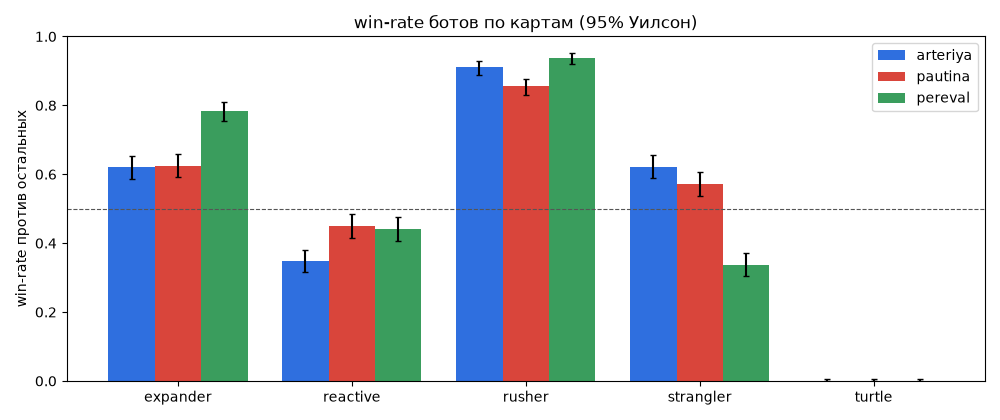
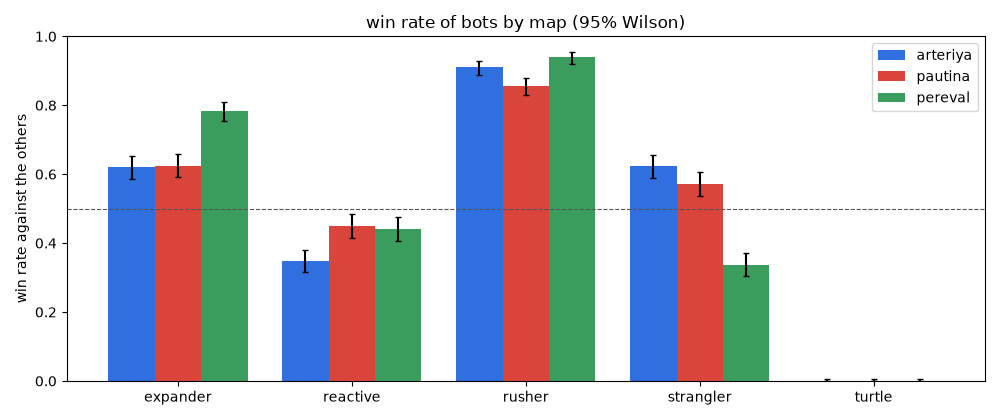
docs(docs): translate the balance log and regenerate the balance report (#405)

diff --git a/docs/balance/log.md b/docs/balance/log.md
@@ -1,12 +1,12 @@
-# Журнал балансировки
+# Balance log
 
-Каждая итерация: рулсет, прогон, результат по критериям гейта BAL-02 (#40), гипотезы и
-следующий шаг. Критерии гейта: issue #40 и `docs/design/mechanics.md`, раздел 17. Отчёт
-последнего прогона: [latest.md](latest.md), формат данных: [README.md](README.md).
+Each iteration: the ruleset, the run, the result against the BAL-02 gate criteria (#40), hypotheses and
+the next step. The gate criteria: issue #40 and `docs/design/mechanics.md`, section 17. The report of the
+latest run: [latest.md](latest.md), the data format: [README.md](README.md).
 
-## Итерация 0: BAL-01 (#39), первый прогон `mvp-0`
+## Iteration 0: BAL-01 (#39), the first `mvp-0` run
 
-### Прогон
+### Run
 
 ```bash
 uv run gow-bots tournament --maps maps/*.json --bots expander reactive rusher strangler turtle \
@@ -14,94 +14,94 @@ uv run gow-bots tournament --maps maps/*.json --bots expander reactive rusher st
 uv run gow-bots report docs/balance/latest.jsonl
 ```
 
-- Рулсет `mvp-0` (хэш `3c114c6a3fde5be635a73d1cd7ff1783`), `SIM_VERSION` 1, карты arteriya, pautina,
-  pereval, сиды 0..99, 7500 матчей. `idle` и `random_legal` исключены: все критерии гейта
-  считаются по стратегическим ботам («Idle и Random не учитываются», #40); их компетентность
-  проверена в BOT-01 и BOT-05.
-- Прогон собран из трёх запусков по одной карте (`--maps maps/<карта>.json`) и склеен в порядке
-  карт: строки упорядочены по `(карта, сид, бот0, бот1)`, поэтому файл совпадает с одним запуском
-  на трёх картах. Время: `docs/perf.md`, раздел «Турнир ботов».
+- Ruleset `mvp-0` (hash `3c114c6a3fde5be635a73d1cd7ff1783`), `SIM_VERSION` 1, maps arteriya, pautina,
+  pereval, seeds 0..99, 7500 matches. `idle` and `random_legal` are excluded: all gate criteria
+  are computed over the strategic bots ("Idle and Random are not counted", #40); their competence
+  was checked in BOT-01 and BOT-05.
+- The run was assembled from three runs, one per map (`--maps maps/<map>.json`), and joined in map
+  order: the rows are ordered by `(map, seed, bot0, bot1)`, so the file matches a single run
+  on the three maps. Timing: `docs/perf.md`, section "Bot tournament".
 
-### Результат по критериям гейта
+### Result against the gate criteria
 
-| Критерий (#40) | Значение | Итог |
+| Criterion (#40) | Value | Outcome |
 |---|---|---|
-| Ни один стратегический бот не выигрывает у остальных стратегических больше 65% | rusher 0.90 [0.89; 0.91], expander 0.68 [0.66; 0.69]; strangler 0.51, reactive 0.41, turtle 0.00 | **не пройден** |
-| Сторона 0 на каждой карте < 55%, 95% интервал включает 50% (зеркальные матчи) | arteriya 0.53 [0.48; 0.58], pautina 0.54 [0.48; 0.59], pereval 0.52 [0.47; 0.57]; по всем матчам 0.51 [0.49; 0.53] на каждой карте | пройден |
-| Доля запланированных атак у стратегических ботов 20–70% | expander 0.13, rusher 0.08, strangler 0.05, reactive 0.04, turtle 0.00 | **не пройден** |
-| Turtle выигрывает у Expander < 40% | 0.00 [0.00; 0.01] | пройден (вырожденно, см. ниже) |
-| Захват в последние 3 минуты в ≥ 30% матчей | 0.61 (4550/7500) | пройден |
-| Итоговый рулсет `rulesets/mvp.toml` | — | задача BAL-02 |
+| No strategic bot beats the other strategic bots more than 65% | rusher 0.90 [0.89; 0.91], expander 0.68 [0.66; 0.69]; strangler 0.51, reactive 0.41, turtle 0.00 | **failed** |
+| Side 0 on each map < 55%, the 95% interval includes 50% (mirror matches) | arteriya 0.53 [0.48; 0.58], pautina 0.54 [0.48; 0.59], pereval 0.52 [0.47; 0.57]; over all matches 0.51 [0.49; 0.53] on each map | passed |
+| The share of scheduled attacks among the strategic bots 20-70% | expander 0.13, rusher 0.08, strangler 0.05, reactive 0.04, turtle 0.00 | **failed** |
+| Turtle beats Expander < 40% | 0.00 [0.00; 0.01] | passed (degenerately, see below) |
+| A capture in the last 3 minutes in >= 30% of matches | 0.61 (4550/7500) | passed |
+| The final ruleset `rulesets/mvp.toml` | - | the BAL-02 task |
 
-Дополнительно (отчёт BOT-05): rusher бьёт всех значимо (доминирующая стратегия), циклов
-«камень-ножницы-бумага» нет; проверка компетентности «reactive бьёт rusher чаще expander» не
-выполнена: 0.02 [0.01; 0.03] против 0.10 [0.08; 0.12] (#166). Ничьих 0.05, почти все матчи идут
-до таймера (`vp` 6716 из 7500, `capital` 433). Ячеек без вариативности 0/75.
+Additionally (the BOT-05 report): rusher beats everyone significantly (a dominant strategy), there are no
+rock-paper-scissors cycles; the competence check "reactive beats rusher more often than expander does" was not
+met: 0.02 [0.01; 0.03] against 0.10 [0.08; 0.12] (#166). Draws 0.05, almost all matches go
+to the timer (`vp` 6716 of 7500, `capital` 433). Cells without variability 0/75.
 
-### Вердикт
+### Verdict
 
-Гейт на `mvp-0` **не пройден**: 3 из 5 числовых критериев выполнены (стороны, конец партии,
-Turtle против Expander), 2 нет (доминирующая стратегия, доля запланированных атак). Механика на
-этих числах схлопывается в одну стратегию: «стойка Война и захват нейтральных узлов как можно
-быстрее». Это прежде всего свойство рулсета, а не только слабость ботов (доказательства ниже);
-итерации BAL-02 начинать с рулсета, параллельно чинить Reactive и Turtle.
+The gate on `mvp-0` is **failed**: 3 of the 5 numeric criteria are met (sides, the end of the match,
+Turtle against Expander), 2 are not (a dominant strategy, the share of scheduled attacks). On
+these numbers the mechanics collapse into a single strategy: "the War stance and capturing neutral nodes as fast
+as possible". This is first of all a property of the ruleset, not only a weakness of the bots (evidence below);
+start the BAL-02 iterations from the ruleset and fix Reactive and Turtle in parallel.
 
-### Разбор: рулсет или боты
+### Analysis: ruleset or bots
 
-**1. Узкое место: CP, а не заряды (рулсет).** Победы ботов упорядочены строго по стойке:
-rusher (Война всю партию) 0.90 > expander (Война первые 1200–2400 тиков, затем Баланс) 0.68 >
-strangler и reactive (Баланс) 0.51 и 0.41 > turtle (Экономия) 0.00. Матчи решаются по VP, то есть
-числом узлов: rusher в конце держит 25–31 узел против 2–7 у соперников. Нейтральный город в MVP
-пуст (mechanics.md, раздел 9), захват стоит только приказ (1 CP) и заряды на него не нужны, а
-Война оставляет в CP 75% регена против 25% у Экономии. Заряды почти не ограничивают: успех осад у
-campaign-ботов 0.85–0.89. Проверка (10 сидов, тот же набор, не коммитится): `war = 40` вместо 25
-снижает rusher до 0.81 [0.75; 0.85] (значимой доминации больше нет), expander до 0.59, reactive
-против rusher растёт с 0.02 до 0.22 [0.13; 0.34], стороны без перекоса.
+**1. The bottleneck: CP, not charges (ruleset).** The bots' wins are ordered strictly by stance:
+rusher (War the whole match) 0.90 > expander (War for the first 1200-2400 ticks, then Balance) 0.68 >
+strangler and reactive (Balance) 0.51 and 0.41 > turtle (Economy) 0.00. Matches are decided on VP, that is by
+the number of nodes: at the end rusher holds 25-31 nodes against 2-7 for its opponents. A neutral city in the MVP
+is empty (mechanics.md, section 9), a capture costs only an order (1 CP) and needs no charges, and
+War leaves 75% of the regeneration in CP against 25% for Economy. Charges hardly limit anything: the success of sieges for
+the campaign bots is 0.85-0.89. A check (10 seeds, the same set, not committed): `war = 40` instead of 25
+lowers rusher to 0.81 [0.75; 0.85] (no significant domination any more), expander to 0.59, reactive
+against rusher grows from 0.02 to 0.22 [0.13; 0.34], the sides show no skew.
 
-**2. Запланированный приказ ровно окупается и поэтому почти не выбирается (рулсет + метрика).**
-`prefer_planned` (`apps/bots/src/gow_bots/bots/utility.py`, общая функция всех ботов, AGENTS.md
-раздел 8) берёт план, когда сэкономленные выстрелы дороже надбавки:
-`saved * 100 > (planned_move - move) * charges_per_cp`, то есть `saved > 2` при `mvp-0`. Бонус
-`planned_bonus = 2`, поэтому `saved = min(2, need) <= 2`, и план выбирается только когда он
-превращает отскок в захват. Проверка `planned_bonus = 3` (10 сидов): доля растёт лишь до
-0.17 / 0.10 / 0.07 / 0.06 (expander, rusher, strangler, reactive), rusher остаётся доминирующим
-(0.88). Причина: метрика считает атакой любой `Move` на чужой или нейтральный узел, а большинство
-таких приказов идут в пустые нейтральные узлы (`need = 0`, бонус не нужен). Пока захват нейтралей
-бесплатен по зарядам, 20% недостижимы одной ценой плана.
+**2. A scheduled order exactly pays for itself and therefore is almost never chosen (ruleset + metric).**
+`prefer_planned` (`apps/bots/src/gow_bots/bots/utility.py`, the common function of all bots, AGENTS.md
+section 8) takes the plan when the saved shots are worth more than the surcharge:
+`saved * 100 > (planned_move - move) * charges_per_cp`, that is `saved > 2` with `mvp-0`. The bonus
+`planned_bonus = 2`, so `saved = min(2, need) <= 2`, and the plan is chosen only when it
+turns a bounce into a capture. A check with `planned_bonus = 3` (10 seeds): the share grows only to
+0.17 / 0.10 / 0.07 / 0.06 (expander, rusher, strangler, reactive), rusher stays dominant
+(0.88). The reason: the metric counts any `Move` to an enemy or neutral node as an attack, and most
+of those orders go to empty neutral nodes (`need = 0`, no bonus is needed). While capturing neutrals
+is free in charges, 20% cannot be reached by the price of the plan alone.
 
-**3. Reactive против Rusher (#166): в основном следствие пункта 2, плюс слабость бота.** Reactive
-отвечает только на публичные запланированные удары; rusher против reactive отдаёт 1.4
-запланированных приказа на 77.9 атакующих за матч (около 2%), то есть отвечать почти не на что.
-Без намерений Reactive играет базовую кампанию в Балансе и держит в резерве 200–300 CP «на ответ»,
-то есть ещё сильнее голодает по CP. Итог 2.3 узла против 30.2 к концу. Поправка ботов (не
-рулсета) для #166: не держать резерв, пока нет видимых планов врага; отвечать и на видимое
-сосредоточение групп у своих городов.
+**3. Reactive against Rusher (#166): mostly a consequence of point 2, plus a weakness of the bot.** Reactive
+responds only to public scheduled strikes; against reactive, rusher issues 1.4
+scheduled orders per 77.9 attacking orders per match (about 2%), so there is almost nothing to respond to.
+Without intents Reactive plays the basic campaign in Balance and keeps 200-300 CP in reserve "for a response",
+that is it starves for CP even more. The result is 2.3 nodes against 30.2 at the end. A correction of the bots (not
+of the ruleset) for #166: do not keep the reserve while there are no visible enemy plans; respond also to a visible
+concentration of groups near your own cities.
 
-**4. Turtle 0.00 против всех: замысел подтверждён, но бот вырожден (бот + пункт 1).** Все
-поражения по VP, ни одной потерянной столицы. Против expander 9.7 узла против 22.9 (то, что гейт и
-хочет проверить: удержание городов бьёт бункер). Но против rusher Turtle к концу держит 1.8 узла,
-то есть не удерживает даже свой регион: в Экономии у него около 3 CP в минуту, «Защита» стоит 2 CP,
-атакующих приказов 8–9 за матч против 35–78 у остальных. Склады полны, но потратить заряды нечем.
-Слабость бота: стойка Экономия всю партию без переключения. Механика: пункт 1 (заряды не
-конвертируются в силу без CP). Критерий «Turtle < 40% против Expander» сейчас выполняется
-вырожденно и должен перепроверяться после правок пункта 1.
+**4. Turtle 0.00 against everyone: the idea is confirmed, but the bot is degenerate (bot + point 1).** All
+defeats are on VP, not a single lost capital. Against expander 9.7 nodes against 22.9 (what the gate
+wants to check: holding cities beats a bunker). But against rusher Turtle holds 1.8 nodes at the end,
+that is it does not hold even its own region: in Economy it has about 3 CP per minute, "Defense" costs 2 CP,
+attacking orders are 8-9 per match against 35-78 for the others. The warehouses are full, but there is nothing to spend the charges on.
+A weakness of the bot: the Economy stance the whole match without switching. The mechanics: point 1 (charges are not
+converted into strength without CP). The criterion "Turtle < 40% against Expander" is currently met
+degenerately and must be rechecked after the fixes of point 1.
 
-**5. Найденный баг правил: #175.** При `war = 40` один матч из 750 (pautina, сид 0, strangler
-против expander) падает в `combat` на инварианте «группа стоит в узле без прибытия», турнир
-обрывается целиком. На `mvp-0` падения нет. Блокирует итерации со сменой стоек; чинить до BAL-02
-или первой задачей в нём.
+**5. A rules bug found: #175.** With `war = 40` one match of 750 (pautina, seed 0, strangler
+against expander) fails in `combat` on the invariant "a group stands in a node with no arrival", and the
+whole tournament aborts. On `mvp-0` there is no failure. It blocks iterations that change the stances; fix it before BAL-02
+or as the first task in it.
 
-### Гипотезы и кандидаты для BAL-02
+### Hypotheses and candidates for BAL-02
 
-| # | Гипотеза | Кандидаты (ключи `mvp-0`) | Ожидание |
+| # | Hypothesis | Candidates (`mvp-0` keys) | Expectation |
 |---|---|---|---|
-| H1 | Война слишком выгодна: CP единственный узкий ресурс | `economy.stance_to_charges_pct.war` 25 → 40 (проверено: rusher 0.81); вместе с `economy` 75 → 60 | rusher и expander < 65%, Turtle и Reactive получают CP |
-| H2 | Захват пустых нейтралей слишком дешёв, поэтому VP решает скорость клейма | в рулсете прямого ключа нет; варианты: гарнизоны нейтральных городов (правка карт или правила, только через DEC и mechanics.md) или `recruit.location = "capital"` (рекрут только в столице, меньше дешёвых тел на фронте) | меньше узлов у rusher, бой за узлы важнее скорости клейма |
-| H3 | План ровно окупается | `orders.planned_bonus` 2 → 3 (проверено: доля до 0.17), либо `orders.cost.planned_move` 200 → 150 | доля запланированных атак растёт; одна она до 20% не дотянет без H2 |
-| H4 | Метрика «доля запланированных атак» разбавлена захватами пустых нейтралей | считать долю только по атакам на занятые узлы (`need > 0`); это смена определения метрики в `gow_sim.analysis`, нужна запись в mechanics.md, раздел 17, а не правка чисел | измеряется то, что задумано в разделе 5 |
-| H5 | Бункер не удерживает регион из-за голода по CP | `orders.cost.defense` 200 → 100, `orders.defense_bonus` 2 → 3 | Turtle держит регион против rusher, но всё ещё проигрывает expander по VP |
+| H1 | War is too profitable: CP is the only narrow resource | `economy.stance_to_charges_pct.war` 25 -> 40 (checked: rusher 0.81); together with `economy` 75 -> 60 | rusher and expander < 65%, Turtle and Reactive get CP |
+| H2 | Capturing empty neutrals is too cheap, so VP is decided by the speed of claiming | there is no direct key in the ruleset; options: garrisons of neutral cities (a change of maps or rules, only through a DEC and mechanics.md) or `recruit.location = "capital"` (recruit only in the capital, fewer cheap bodies at the front) | fewer nodes for rusher, the fight for nodes matters more than the speed of claiming |
+| H3 | The plan exactly pays for itself | `orders.planned_bonus` 2 -> 3 (checked: the share up to 0.17), or `orders.cost.planned_move` 200 -> 150 | the share of scheduled attacks grows; alone it will not reach 20% without H2 |
+| H4 | The metric "share of scheduled attacks" is diluted by captures of empty neutrals | count the share only over attacks on occupied nodes (`need > 0`); this is a change of the metric definition in `gow_sim.analysis`, it needs an entry in mechanics.md, section 17, and not an edit of numbers | what is intended in section 5 gets measured |
+| H5 | The bunker does not hold the region because of the CP starvation | `orders.cost.defense` 200 -> 100, `orders.defense_bonus` 2 -> 3 | Turtle holds the region against rusher, but still loses to expander on VP |
 
-Порядок: сначала #175, затем H1 (одна правка, уже видна в данных), затем H2 или H3 по отдельности,
-каждая итерация с турниром `--seeds 100` и отчётом в PR (AGENTS.md, раздел 10). Ботовые поправки
-(#166 для Reactive, переключение стойки у Turtle) идут отдельными PR, чтобы не смешивать эффект
-бота и рулсета в одной итерации.
+The order: first #175, then H1 (one edit, already visible in the data), then H2 or H3 separately,
+each iteration with a `--seeds 100` tournament and a report in the PR (AGENTS.md, section 10). The bot fixes
+(#166 for Reactive, stance switching for Turtle) go in separate PRs, so that the effect of the bot and of the ruleset
+is not mixed in one iteration.
